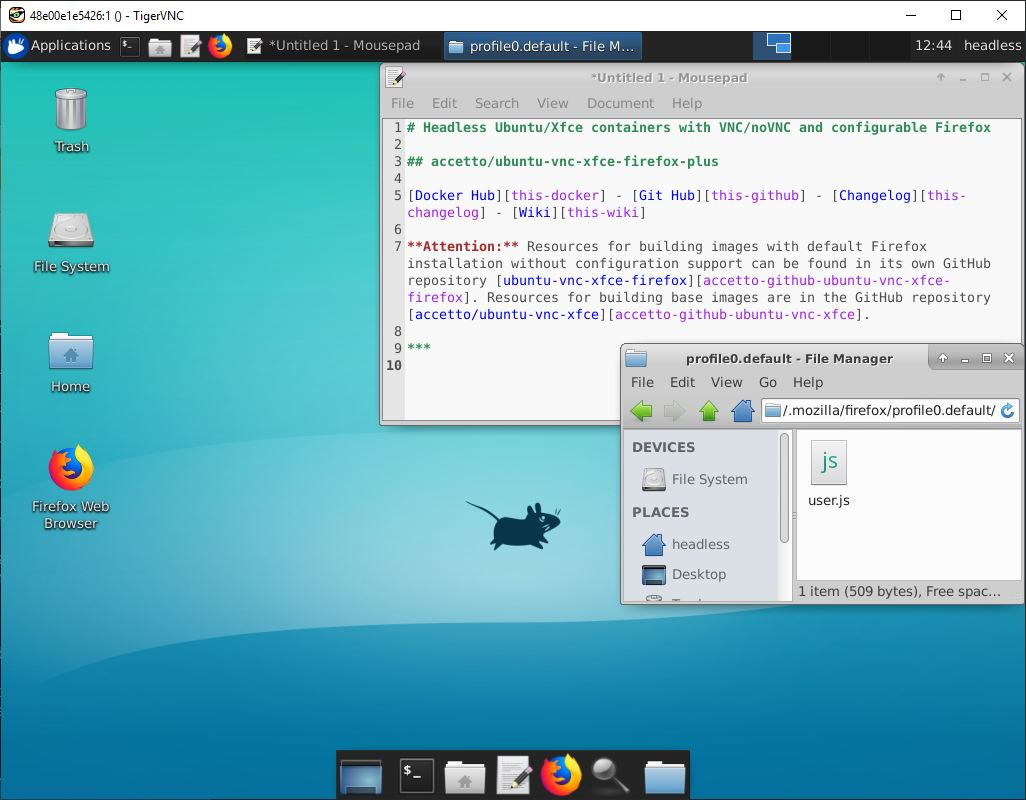
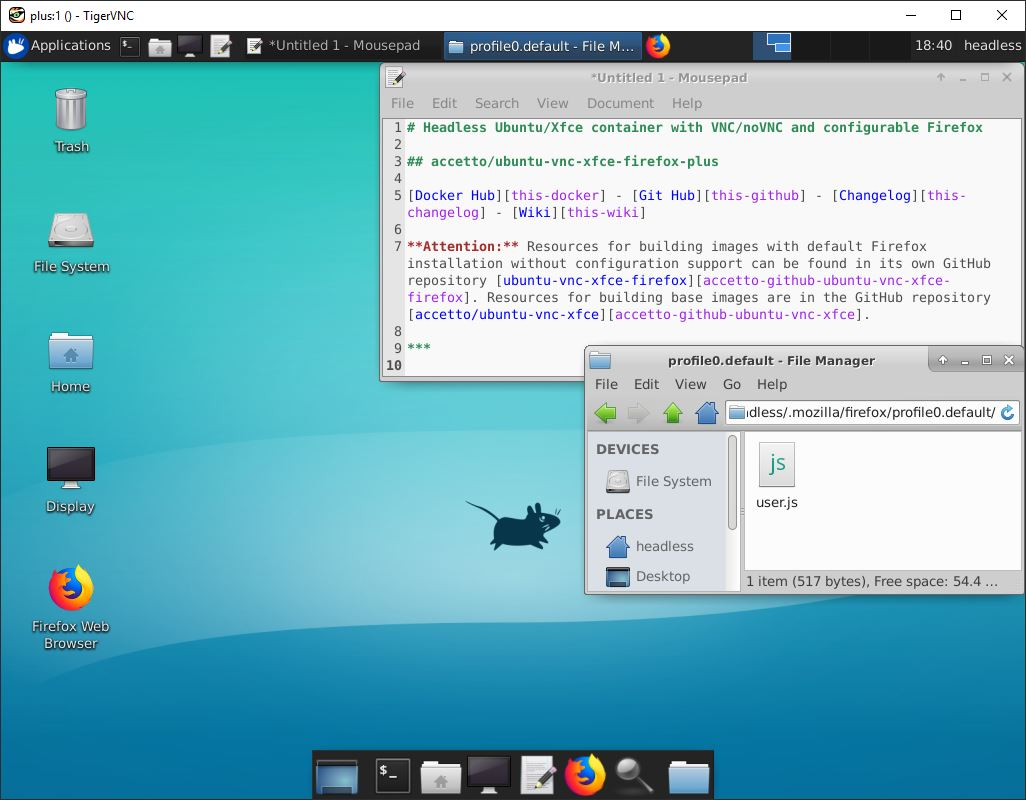
noVNC 1.1.0, ping, display setting launcher

diff --git a/README.md b/README.md
@@ -1,4 +1,4 @@
-# Headless Ubuntu/Xfce containers with VNC/noVNC and configurable Firefox
+# Headless Ubuntu/Xfce container with VNC/noVNC and configurable Firefox
 
 ## accetto/ubuntu-vnc-xfce-firefox-plus
 
@@ -8,21 +8,21 @@
 
 ***
 
-**This repository** contains resources for building Docker images based on [Ubuntu][docker-ubuntu], with [Xfce][xfce] desktops, headless **VNC**/[noVNC][novnc] environments and the current [Firefox][firefox] web browser with pre-configuration support.
+**This repository** contains resources for building a Docker image based on [Ubuntu][docker-ubuntu] with [Xfce][xfce] desktop environment, **VNC**/[noVNC][novnc] servers for headless use and the current [Firefox][firefox] web browser with pre-configuration support.
 
-This image can be successfully built and used on Linux, NAS devices and Windows.
+The image can be successfully built and used on Linux, Windows, Mac and NAS devices. It has been tested with [Docker Desktop][docker-desktop] on [Ubuntu flavours][ubuntu-flavours], [Windows 10][docker-for-windows] and [Container Station][container-station] from [QNAP][qnap].
 
-It has been tested with [Docker CE][docker-ce] on [Ubuntu flavours][ubuntu-flavours], with [Container Station][container-station] on a NAS from [QNAP][qnap] and with [Docker for Windows][docker-for-windows] on Windows 10.
-
-The image is perfect for fast creation of light-weight web browser containers. They can be thrown away easily and replaced quickly, improving browsing privacy. They run under a non-root user by default, improving browsing security.
+Containers created from this image make perfect light-weight web browsers. They can be thrown away easily and replaced quickly, improving browsing privacy. They run under a non-root user by default, improving browsing security.
 
 They make also excellent long-term browsers, because the preferences and profiles can be pre-configured and stored on volumes that survive container destruction.
 
 There are two ways of customization. Firstly, it's possible to force Firefox preferences by modifying the provided **user.js** file. Secondly, it's possible to use a complete Firefox profile, previously created on a volume. The [HOWTO][this-wiki-howto] page in [Wiki][this-wiki] describes it in more details.
 
-Frequently used preferences and profiles can be also embedded into new user built images. The ready-to-use Dockerfiles are already provided (see [below](#user-content-image-set)). The [HOWTO][this-wiki-howto] page in [Wiki][this-wiki] describes how to build such images.
+Frequently used preferences and profiles can be also embedded into new customized images, built by the user. The ready-to-use Dockerfiles are already provided (see [below](#user-content-image-set)). The [HOWTO][this-wiki-howto] page in [Wiki][this-wiki] describes how to build such images.
 
-The image is based on the [accetto/ubuntu-vnc-xfce][accetto-docker-ubuntu-vnc-xfce] image, just adding the [Firefox][firefox] browser and resources for its customization.
+Running in background is the primary scenario for the containers, but using them interactively in foreground is also possible. For examples see the description below or the [HOWTO][this-wiki-howto] section in [Wiki][this-wiki].
+
+The image is based on the [accetto/ubuntu-vnc-xfce][accetto-docker-ubuntu-vnc-xfce] image, just adding the [Firefox][firefox] browser and the resources for its customization.
 
 The image inherits the following components from its [base image][accetto-docker-ubuntu-vnc-xfce]:
 
@@ -31,6 +31,7 @@ The image inherits the following components from its [base image][accetto-docker
 - [noVNC][novnc] HTML5 clients (full and lite) (TCP port **6901**)
 - popular text editor [vim][vim]
 - lite but advanced graphical editor [mousepad][mousepad]
+- **ping** utility
 - container start-up options
 
 Running containers in background is the primary scenario this image has been developed for. However, running in foreground can be useful in many cases. See the description below for examples of using the containers both ways.
@@ -44,21 +45,20 @@ The image is regularly maintained and rebuilt. The history of notable changes is
 - [accetto/ubuntu-vnc-xfce-firefox-plus][this-docker]
 
   - `latest` based on `accetto/ubuntu-vnc-xfce:latest`
-  - `rolling` based on `accetto/ubuntu-vnc-xfce:rolling`
 
-    [![version badge](https://images.microbadger.com/badges/version/accetto/ubuntu-vnc-xfce-firefox-plus.svg)](https://microbadger.com/images/accetto/ubuntu-vnc-xfce-firefox-plus "Get your own version badge on microbadger.com") [![size badge](https://images.microbadger.com/badges/image/accetto/ubuntu-vnc-xfce-firefox-plus.svg)](https://microbadger.com/images/accetto/ubuntu-vnc-xfce-firefox-plus "Get your own image badge on microbadger.com") [![version badge](https://images.microbadger.com/badges/version/accetto/ubuntu-vnc-xfce-firefox-plus:rolling.svg)](https://microbadger.com/images/accetto/ubuntu-vnc-xfce-firefox-plus:rolling "Get your own version badge on microbadger.com") [![size badge](https://images.microbadger.com/badges/image/accetto/ubuntu-vnc-xfce-firefox-plus:rolling.svg)](https://microbadger.com/images/accetto/ubuntu-vnc-xfce-firefox-plus:rolling "Get your own image badge on microbadger.com")
+    [![version badge](https://images.microbadger.com/badges/version/accetto/ubuntu-vnc-xfce-firefox-plus.svg)](https://microbadger.com/images/accetto/ubuntu-vnc-xfce-firefox-plus "Get your own version badge on microbadger.com") [![size badge](https://images.microbadger.com/badges/image/accetto/ubuntu-vnc-xfce-firefox-plus.svg)](https://microbadger.com/images/accetto/ubuntu-vnc-xfce-firefox-plus "Get your own image badge on microbadger.com")
 
 - **accetto/ubuntu-vnc-xfce-firefox-plus-preferences**
 
-    These images are not actually contained in the [Docker repository][accetto-docker], because they are intended to keep pre-configured user-specific **Firefox preferences**. Users can put their favorite preferences into the configuration files and build the images using the provided [Dockerfile-plus-preferences][this-dockerfile-plus-preferences]. The [HOWTO][this-wiki-howto] page in [Wiki][this-wiki] describes it in more details.
+    This image is not actually contained in the [Docker repository][accetto-docker], because it is intended to keep pre-configured user-specific **Firefox preferences**. Users can put their favorite preferences into the configuration files and build the image using the provided [Dockerfile-plus-preferences][this-dockerfile-plus-preferences]. The [HOWTO][this-wiki-howto] page in [Wiki][this-wiki] describes it in more details.
 
 - **accetto/ubuntu-vnc-xfce-firefox-plus-profile**
 
-    These images are also not actually contained in the [Docker repository][accetto-docker], because they are intended to keep pre-configured user-specific **Firefox profiles**. Users can prepare full Firefox profiles and build the images using the provided [Dockerfile-plus-profile][this-dockerfile-plus-profile]. The [HOWTO][this-wiki-howto] page in [Wiki][this-wiki] describes it in more details.
+    This image is also not actually contained in the [Docker repository][accetto-docker], because it is intended to keep pre-configured user-specific **Firefox profiles**. Users can prepare a full Firefox profile and build the image using the provided [Dockerfile-plus-profile][this-dockerfile-plus-profile]. The [HOWTO][this-wiki-howto] page in [Wiki][this-wiki] describes it in more details.
 
 ### Ports
 
-The images expose the following **TCP** ports:
+Following **TCP** ports are exposed:
 
 - **5901** used for access over **VNC**
 - **6901** used for access over [noVNC][novnc]
@@ -67,7 +67,7 @@ The default **VNC user** password is **headless**.
 
 ### Volumes
 
-The images do not create or use any external volumes by default. However, the following folders make good mounting points:
+The containers do not create or use any external volumes by default. However, the following folders make good mounting points:
 
 - /home/headless/Documents/
 - /home/headless/Downloads/
@@ -193,9 +193,13 @@ It's also possible to provide the password through the links:
 
 ## Issues
 
-If you have found a problem or just have a question, please check the [Issues][this-issues] and the [Troubleshooting][this-wiki-troubleshooting], [FAQ][this-wiki-faq] and [HOWTO][this-wiki-howto] pages in [Wiki][this-wiki] first. Please do not overlook also the closed issues.
+If you have found a problem or you just have a question, please check the [Issues][this-issues] and the [Troubleshooting][this-wiki-troubleshooting], [FAQ][this-wiki-faq] and [HOWTO][this-wiki-howto] sections in [Wiki][this-wiki] first. Please do not overlook the closed issues.
 
 If you do not find a solution, you can file a new issue. The better you describe the problem, the bigger the chance it'll be solved soon.
+
+## Credits
+
+Credit goes to all the countless people and companies who contribute to open source community and make so many dreamy things real.
 
 [this-docker]: https://hub.docker.com/r/accetto/ubuntu-vnc-xfce-firefox-plus/
 [this-github]: https://github.com/accetto/ubuntu-vnc-xfce-firefox-plus
@@ -222,8 +226,8 @@ If you do not find a solution, you can file a new issue. The better you describe
 [docker-ubuntu]: https://hub.docker.com/_/ubuntu/
 [docker-doc]: https://docs.docker.com/
 [docker-doc-managing-data]: https://docs.docker.com/storage/
-[docker-for-windows]: https://docs.docker.com/docker-for-windows/
-[docker-ce]: https://docs.docker.com/install/
+[docker-for-windows]: https://hub.docker.com/editions/community/docker-ce-desktop-windows
+[docker-desktop]: https://www.docker.com/products/docker-desktop
 
 [qnap]: https://www.qnap.com/en/
 [container-station]: https://www.qnap.com/solution/container_station/en/

diff --git a/CHANGELOG.md b/CHANGELOG.md
@@ -6,6 +6,18 @@
 
 ***
 
+### Version 19.04
+
+- **noVNC** updated to version **1.1.0** (formerly 1.0.0), inherited from the [base image][accetto-github-ubuntu-vnc-xfce]
+- **ping** utility added, inherited from the [base image][accetto-github-ubuntu-vnc-xfce]
+- Environment variable **REFRESHED_AT** added back
+- Display settings launcher added to the desktop and the panels
+  - to make resolution switching more convenient also with **noVNC** lite client
+  - inherited from the [base image][accetto-github-ubuntu-vnc-xfce]
+- **Dockerfile_rolling** file removed
+  - it can be easily cloned from the Dockerfile file for the **latest** build
+  - **rolling** build will not be maintained on **Docker Hub** any more
+
 ### Version 19.01
 
 - **TigerVNC** updated to version **1.9.0** (formerly 1.8.0), inherited from the [base image][accetto-github-ubuntu-vnc-xfce]
